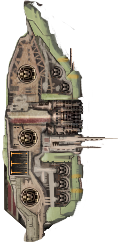
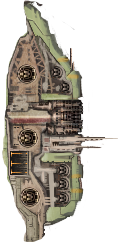
fixes to armor parent hullmod and templar midright section sprite

Changed region(s): [[0.0254, 0.6653, 0.2288, 0.9545], [0.3559, 0.9256, 0.4322, 0.9545], [0.0254, 0.5496, 0.0508, 0.5785]]

diff --git a/src/neon/xdp/data/scripts/util/ArmorParent.kt b/src/neon/xdp/data/scripts/util/ArmorParent.kt
@@ -9,6 +9,7 @@ import com.fs.starfarer.api.combat.listeners.AdvanceableListener
 import com.fs.starfarer.api.combat.listeners.ApplyDamageResultAPI
 import com.fs.starfarer.api.combat.listeners.DamageListener
 import com.fs.starfarer.api.combat.listeners.HullDamageAboutToBeTakenListener
+import com.fs.starfarer.api.input.InputEventAPI
 import org.lwjgl.util.vector.Vector2f
 
 const val MODULE_DEAD = "module_dead"
@@ -34,17 +35,9 @@ class ArmorParent: BaseHullMod() {
     class ArmorModuleChild(val module: ShipAPI): DamageListener, HullDamageAboutToBeTakenListener, AdvanceableListener {
         override fun advance(amount: Float) {
             val engine = Global.getCombatEngine()
-            // return if we are sure the module is no longer in play
+
             if (Global.getCurrentState() != GameState.COMBAT || engine == null || !Global.getCombatEngine().isEntityInPlay(module) ||
                 module.parentStation?.isAlive != true || module.hitpoints <= 0 || module.hasTag(MODULE_DEAD)) return
-
-            /*
-            Enemy AI prioritizes targeting modules over the base hull. While logical for ship/station sections, this creates issues with armor modules.
-            To prevent this, I set the module to a 'hulk' state, causing the AI to ignore it.
-            However, this triggers a distracting visual whiteout ship explosion the first time it is done.
-            My solution is to teleport the module offscreen (currently, a map corner) before marking it as a hulk.
-            This must be done after the ship is loaded into the map and within its borders to prevent the game from despawning it.
-            */
 
             val pad = 50f
             val moduleInMap = (module.location.x in (pad - engine.mapWidth / 2)..(engine.mapWidth / 2 - pad)) &&
@@ -56,23 +49,16 @@ class ArmorParent: BaseHullMod() {
                 val borderEdgeY = if (module.location.getY() > 0) engine.mapHeight / 2 else -engine.mapHeight / 2
 
                 module.location.set(borderEdgeX, borderEdgeY)
-                module.isHulk = true
 
-                /*
-                I set the modules to be station drones, this makes the enemy AI not see the ship as a group of ships. (ie: a capital with 4 frigate escorts)
-                Without this enemies AI would not try to fight module ships as they think it is a many vs 1.
-                This can also be avoided by setting the module hullsize to be a fighter, but that has other rendering issues. (fighters always render over everything else)
-                */
                 module.isDrone = true
                 module.addTag(MODULE_HULKED)
 
-                // set module captain to parent captain, no clue if this is already done or not, but best be safe.
                 module.captain = module.parentStation.captain
             }
 
-            // re-set the module to be a hulk if it's not, this happens after hulk is unset for vanilla damage fx's
-            if (!module.isHulk && module.hasTag(MODULE_HULKED)) {
-                module.isHulk = true
+
+            if (module.hasTag(MODULE_HULKED) && !module.isDrone && !module.hasTag(MODULE_DEAD)) {
+                module.isDrone = true
             }
 
             // sync hardflux level with parent hull for polarized armor purposes
@@ -81,16 +67,26 @@ class ArmorParent: BaseHullMod() {
             module.fluxTracker.hardFlux = moduleFlux
         }
 
-        // unset hulk for right before any damage gets dealt to the module, this allows for normal processing of hit explosions
+        // Temporarily unset drone so damage effects display properly, then reapply
         override fun reportDamageApplied(source: Any, target: CombatEntityAPI, result: ApplyDamageResultAPI) {
             val module = target as ShipAPI
-            if (module.isHulk && module.hitpoints > 0 && !module.hasTag(MODULE_DEAD)) module.isHulk = false
+            if (module.hasTag(MODULE_HULKED) && module.isDrone && module.hitpoints > 0 && !module.hasTag(MODULE_DEAD)) {
+                module.isDrone = false
+                // Schedule reapplication of drone state for the next frame
+                // This allows damage effects to play properly
+                Global.getCombatEngine().addPlugin(object : com.fs.starfarer.api.combat.BaseEveryFrameCombatPlugin() {
+                    override fun advance(amount: Float, events: MutableList<InputEventAPI>?) {
+                        if (module.isDrone == false && module.hitpoints > 0 && !module.hasTag(MODULE_DEAD)) {
+                            module.isDrone = true
+                        }
+                        Global.getCombatEngine().removePlugin(this)
+                    }
+                })
+            }
         }
 
-        // for some reason the above listener doesn't catch when the module is actually going to be dead.
         override fun notifyAboutToTakeHullDamage(param: Any, module: ShipAPI, point: Vector2f, damageAmount: Float): Boolean {
             if (module.hitpoints <= damageAmount && !module.hasTag(MODULE_DEAD)) {
-                module.isHulk = false
                 module.isDrone = false
                 module.addTag(MODULE_DEAD)
             }
